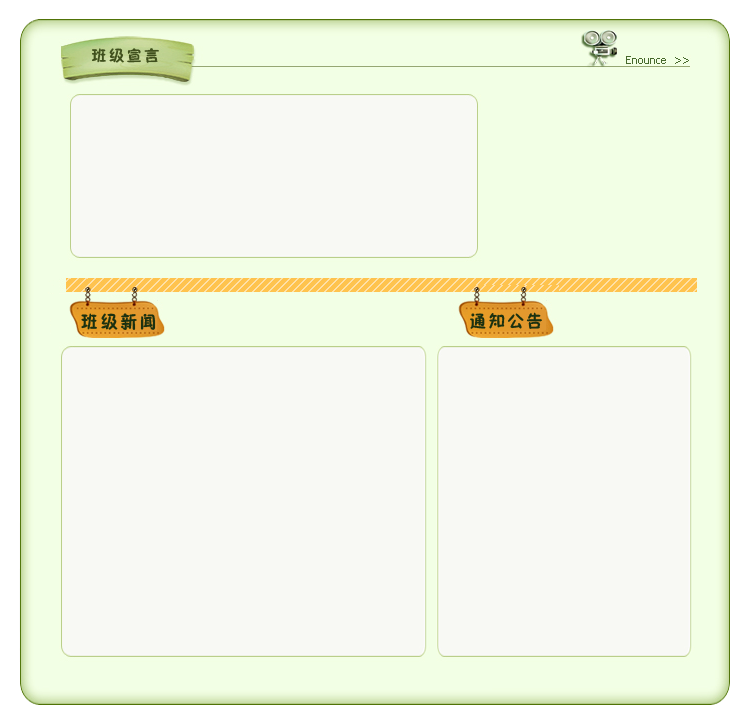
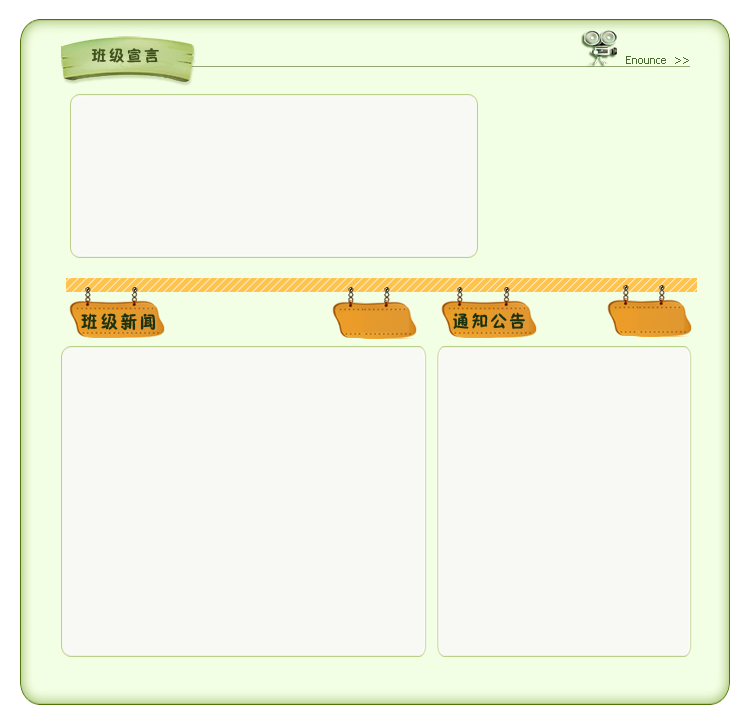
hutai

Changed region(s): [[0.5834, 0.3945, 0.737, 0.4855], [0.7984, 0.3945, 0.9212, 0.4855], [0.4299, 0.3945, 0.5527, 0.4855]]

diff --git a/server/source/platinum-cms-website/WebContent/lgqhb/css/index.css b/server/source/platinum-cms-website/WebContent/lgqhb/css/index.css
@@ -29,9 +29,13 @@ body{width:1004px;height:1417px;margin:0 auto;}
 #columnsLeftDown span{position:absolute;top:45px;left:50px;font-size:16px;}
 #classDeclare{position:absolute;top:110px;left:80px; text-indent:32px;width:392px; font-family:'方正少儿简体';font-size:20px;line-height:32px;color:#35B123;text-align: justify;}
 #banjixinwen{position:absolute;left:70px;top:355px;width:350px;height:290px;}
+#banjixinwen_more{position:absolute;left:347px;top:312px;width:55px;height:20px;line-height:20px;text-align:center;}
+#banjixinwen_more a{color:#1b3110;font-size:16px;font-family:微软雅黑;font-weight:bold;}
 #tongzhi{position:absolute;left:445px;top:355px;width:240px;height:290px;}
+#tongzhi_more{position:absolute;left:623px;top:312px;width:55px;height:20px;line-height:20px;text-align:center;}
+#tongzhi_more a{color:#1b3110;font-size:16px;font-family:微软雅黑;font-weight:bold;}
 #classXinwen{width:100%;height:100%;}
-#classXinwen li{width:350px;height:30px;}
+#classXinwen li{width:350px;height:36px;}
 #classXinwen li a{display: block;width: 330px;height: 30px;float: left;margin-top: 6px;margin-left: 7px;overflow: hidden;white-space: nowrap;text-overflow: ellipsis;}
 #classXinwen li a #title {display: inline;}
 #classXinwen li a #title:hover{color:#35b123;}
@@ -45,4 +49,7 @@ body{width:1004px;height:1417px;margin:0 auto;}
 
 #footer{width:100%;height:94px;bottom:0;background-image:url(../images/footer.jpg);position:relative;}
 #footer p{position:absolute;top:48px;right:200px;font-size:16px;font-family:'方正少儿简体';color:#333;}
-#info{display:none;}
+#viewCount span{display:none;}
+
+/*more*/
+#postList li{width:620px;list-style-position:outside;margin-left:5px;}

diff --git a/server/source/platinum-cms-website/WebContent/static/tuanwei/css/commom.css b/server/source/platinum-cms-website/WebContent/static/tuanwei/css/commom.css
@@ -564,8 +564,6 @@ overflow: hidden;
 	width: 450px;
 	line-height: 30px;
 	background-image:url(../images/list.gif);
-	background-position: 0px center;
-	background-repeat: no-repeat;
 	overflow: hidden;/*表示溢出的内容会被隐藏*/
 	-o-text-overflow: ellipsis;    /* for Opera */
 	text-overflow: ellipsis;        /* for IE *//*当文本溢出时显示…此时还必须定义：强制文本在一行内显示（white-space:nowrap）及溢出内容为隐藏（overflow:hidden）*/

diff --git a/server/source/platinum-cms-website/WebContent/lgqhb/css/introduce.css b/server/source/platinum-cms-website/WebContent/lgqhb/css/introduce.css
@@ -15,5 +15,5 @@ body{height:inherit;}
 #categoryNavigationBar{display:none;}
 #postDetail #title{font-size: 18px;padding:5px 0 10px 0;}
 #postDetail{width:660px;}
-#content{width:100%;padding:0;}
+#content{width:100%;padding:0;margin-top:10px;}
 #printLi{display:none;}

diff --git a/server/source/platinum-cms-website/WebContent/static/common/css/post.css b/server/source/platinum-cms-website/WebContent/static/common/css/post.css
@@ -96,6 +96,11 @@ a:hover
 	padding: 10px 0 20px 20px;
 }
 
+#attachmentList li
+{
+	margin-bottom:5px;
+}
+
 #attachmentList a
 {
 	text-decoration: none;

diff --git a/server/source/platinum-cms-website/WebContent/lgqhb/css/normal.css b/server/source/platinum-cms-website/WebContent/lgqhb/css/normal.css
@@ -2,3 +2,4 @@
 img{ border:0;margin:0;}
 a{ text-decoration:none; color:#000; }
 ul,li{margin:0;}
+#content img{margin-top:8px;margin-bottom:8px;}
